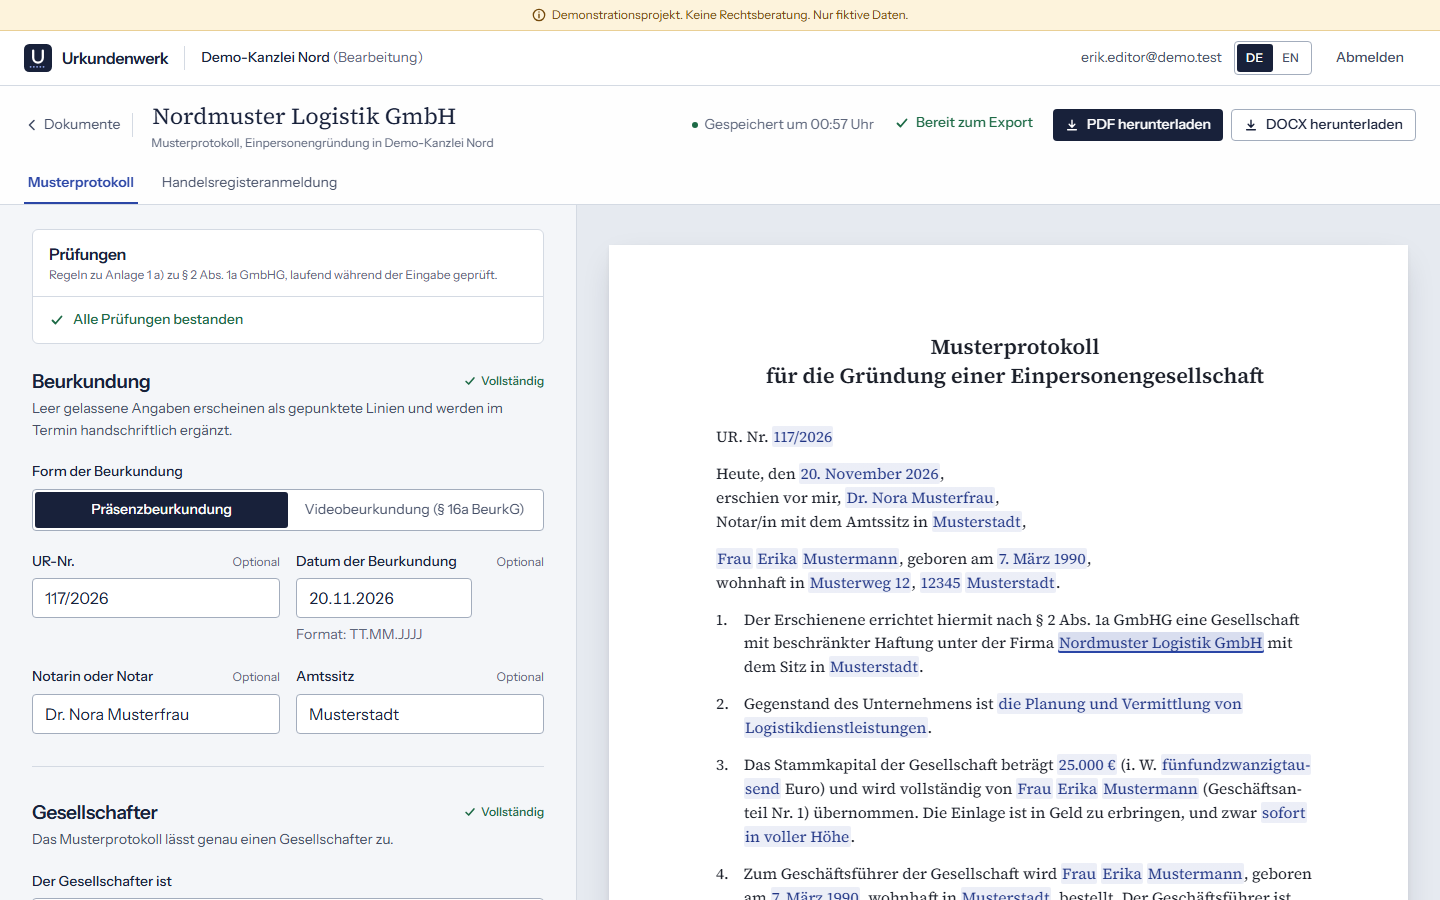
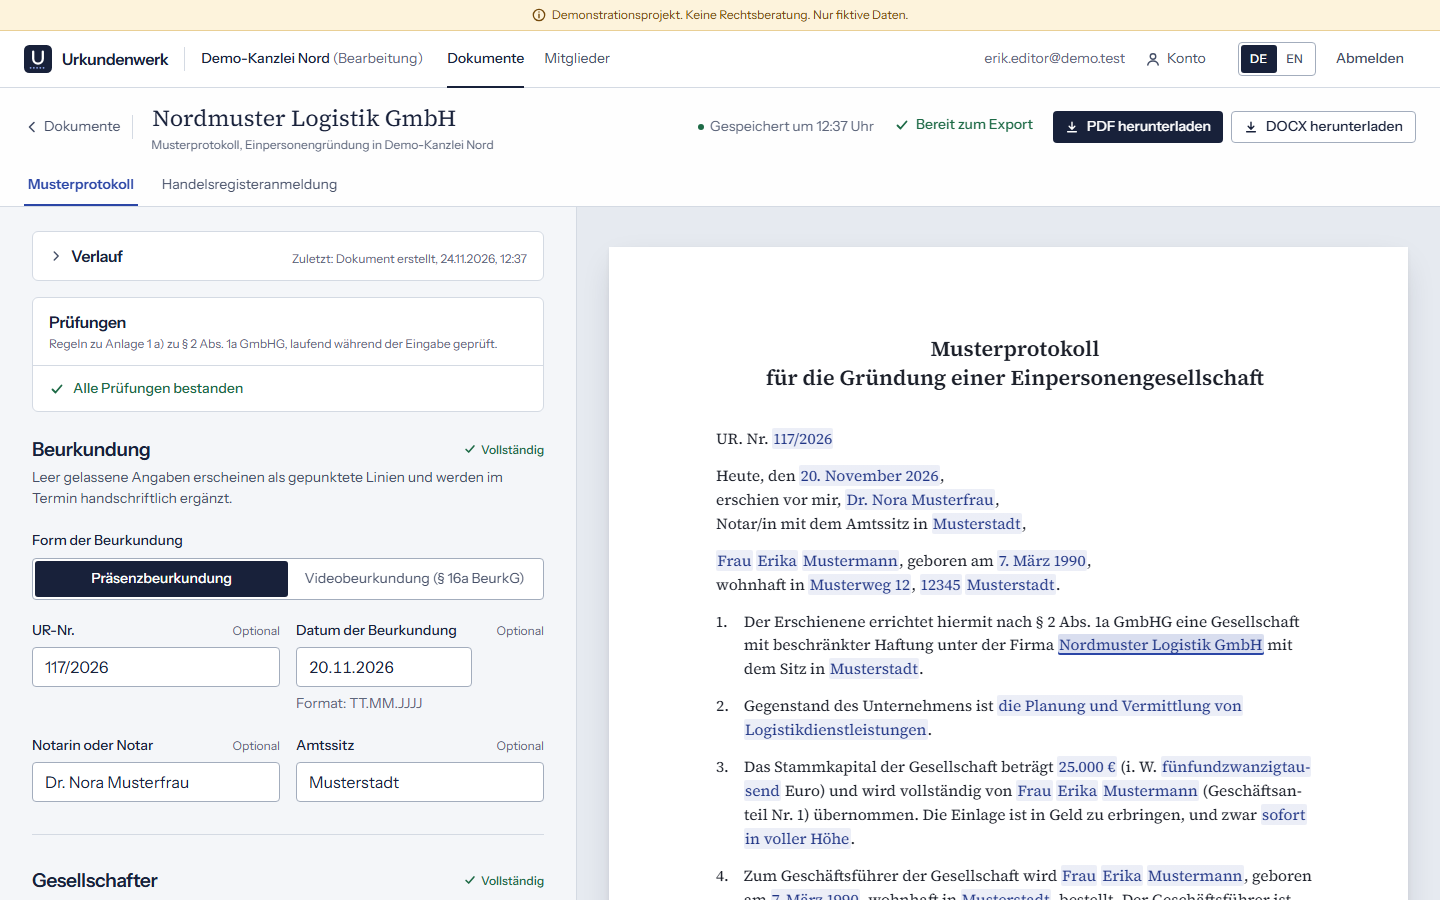
docs: describe the patterns for firm and account pages
Document in-place confirmation, announced results, the activity
timeline and settings rows. Add members and audit screenshots and
refresh the others for the new header.

diff --git a/docs/design.md b/docs/design.md
@@ -99,8 +99,53 @@ v4 `@theme`), so a dark theme can redefine them later.
   in the top right corner of the landing page, and above the sign-in card.
   Switching keeps everything typed. Layouts allow for German, which runs
   about a third longer: toolbars and button rows wrap rather than overflow.
+- **Firm on the left, person on the right.** The app header carries the
+  firm and its sections, Documents, Members and, for admins, the audit log,
+  as tabs underlined in ink along its bottom edge (`aria-current="page"`).
+  The signed-in person, their Account link, the language control and Sign
+  out sit on the right, because they belong to the person, not the firm.
+  Below `lg` the tabs move to a second row that ends with the account icon.
+  Settings and list pages share the dashboard's 5xl column and its
+  `PageHeader`: a title and one sentence that names the firm or account.
 - **One radius per role.** Controls use 4 px, panels 6 px, and the sheet has
   square corners because paper does.
+
+## Patterns for firm and account pages
+
+- **Destructive actions confirm in place.** Remove, Revoke, Leave firm and
+  Delete account first show a quiet red trigger. It opens a `ConfirmPanel`
+  where the control was: a 3 px alert rule on an alert wash, a question
+  that names the person, firm or invitation, one sentence on what is lost
+  and what stays, the action again as a solid alert button with the same
+  verb, and Cancel. Focus moves to the question; Escape or Cancel closes
+  the panel and returns focus to the trigger. There are no browser
+  `confirm()` dialogs and no modals. Account deletion keeps its confirmation
+  checkboxes inside the panel, and firms that will be deleted with the
+  account are listed beforehand in a hint box.
+- **Results are announced where they stay visible.** A role save reports
+  next to its row through an always-present `role="status"` region. A
+  result that removes its own row, such as a removal or a revocation, is
+  announced in one status line above the lists, which also takes focus so
+  keyboard users are not left on a control that no longer exists. Errors
+  use `role="alert"`. Buttons say what they are doing while pending
+  ("Saving…", "Removing…").
+- **Change only what changed.** A member's role is a select; Save and
+  Cancel appear only once it differs from the stored role.
+- **Activity as a timeline.** The audit log and a document's Verlauf share
+  `AuditList`: events grouped by German calendar day (headed "Today /
+  Tuesday, 24 November 2026"), the time in tabular figures on the left, and
+  a hairline rail with a stamp-blue dot per event, alert red for deletions
+  and removals. Each event reads as "Document edited by Erik Editor" with
+  its details below; changed fields fold after five. Document titles are
+  set in the deed's serif, link to the document, and offer "Show only this
+  document". Closed, the Verlauf panel says what happened last.
+- **Settings rows.** The account page pairs a heading and one sentence on
+  the left with the control on the right (`SettingsRow`), stacked on narrow
+  screens. What a download contains or what a deletion does is a short
+  list, not a paragraph.
+- **Empty states invite the next step.** Empty lists use the dashboard's
+  dashed panel with a serif heading and one sentence; filtered views add
+  "Reset filters". The unconfigured legal notice says who must act and how.
 
 ## Accessibility
 
@@ -119,6 +164,10 @@ disabled controls they cannot explain.
 
 `apps/web/src/components/ui` holds the primitives: `Button`, `Field` with
 `TextInput`, `TextArea`, and `Select`, `SegmentedControl`, `Notice`, and
-`Section`. `DocumentPreview` renders any core `DocumentModel` and adds only
-layout and field affordances; it never changes the wording. `ChecksPanel`
-renders rule issues and their explanations; it never changes an issue.
+`Section`, plus `ConfirmPanel` and `StatusMessage` for destructive
+confirmation and announced results. `PageHeader`, `SettingsRow` and
+`AuditList` sit in `apps/web/src/components`.
+
+`DocumentPreview` renders any core `DocumentModel` and adds only layout
+and field affordances; it never changes the wording. `ChecksPanel` renders
+rule issues and their explanations; it never changes an issue.
